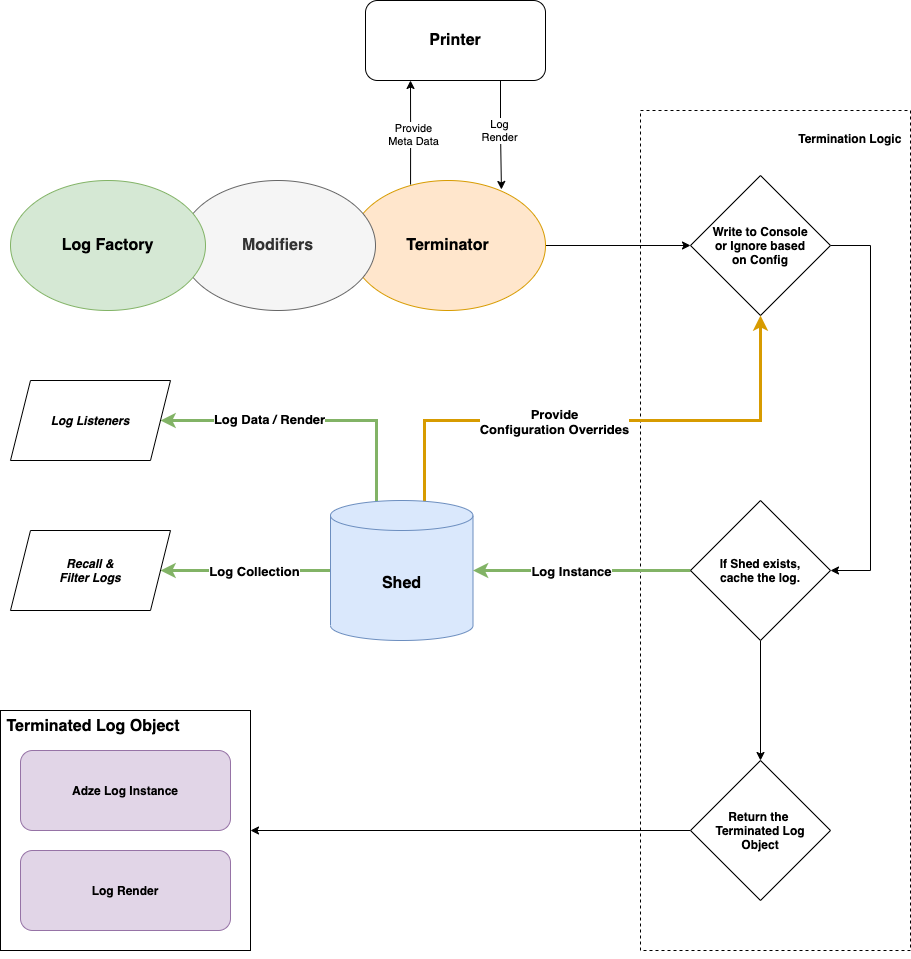
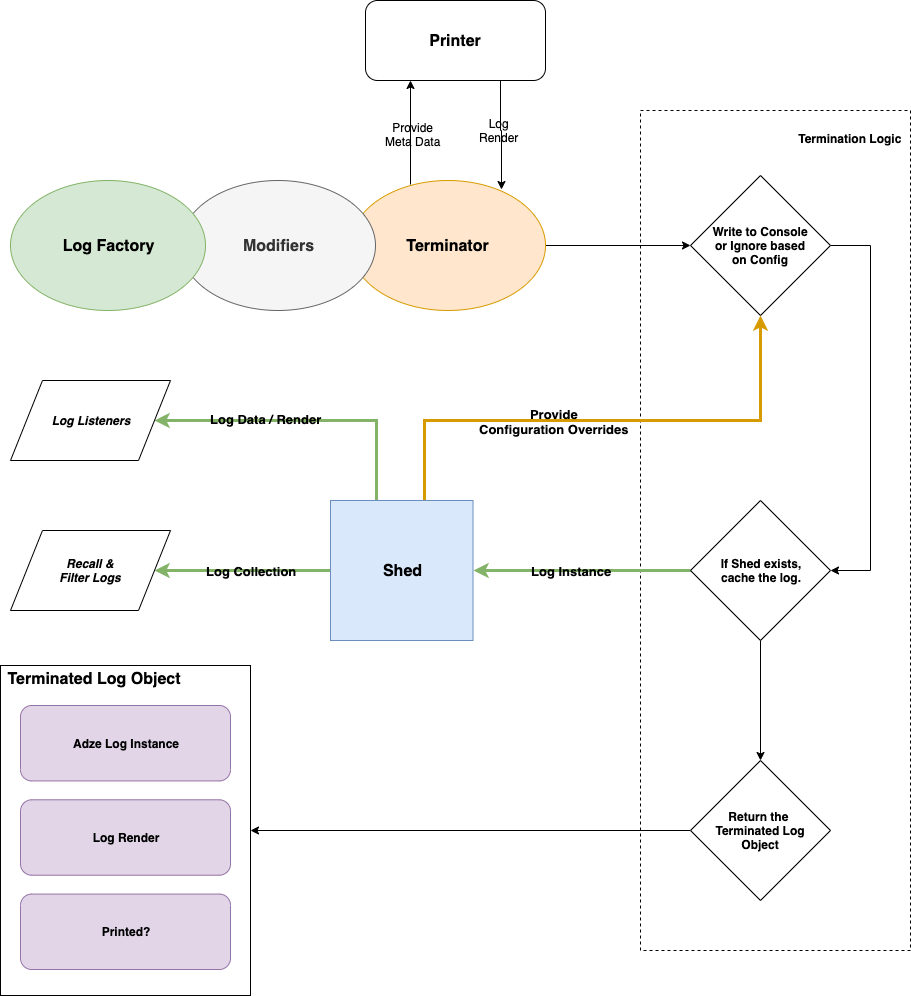
docs: documented new printed property and the new shed tools (#95)
* feat: logs now always render and printed boolean now returned when terminated

Logs will always render and store their render. To know if a log was printed to the console
terminated logs now expose the "printed" boolean that indicates if it was printed. Log listeners
also now receive the printed boolean. Rather than checking for render equal to null, listeners
should now check the printed boolean.

* feat(shed): added tools to the shed for easier manual browser debugging

Added a tools namespace to the shed to allow for easier manual browser debugging. This was added
because the shed exists in the global namespace and makes it easy to access when trying to run
commands in the browser console. It mainly just wraps the filter and rendering utility functions
that are exported by the library. It also includes another method that simplifies rendering a
collection of logs from the shed cache."

* docs: documented new printed property and the new shed tools

Added documentation for the new printed property on terminated log objects. Also added documentation
for the new $shed.tools.

* docs: added version indicators for the new features to docs

* docs: set the cdn version to always be latest for docs example

diff --git a/test/bundle.ts b/test/bundle.ts
@@ -6,14 +6,13 @@ global.ADZE_ENV = 'dev';
 test('bundles logs', (t) => {
   const bundled = bundle(adze({ useEmoji: true }));
 
-  const { log, render } = bundled().ns('SPACE').error('This is an error!');
-  const { log: log2, render: render2 } = bundled()
+  const { log, printed } = bundled().ns('SPACE').error('This is an error!');
+  const { log: log2, printed: printed2 } = bundled()
     .ns(['foo', 'SPACE'])
     .info('Multiple namespaces.');
 
-  if (render === null || render2 === null) {
-    t.fail();
-  }
+  t.truthy(printed);
+  t.truthy(printed2);
 
   t.deepEqual(log.bundle[0].data.namespace, ['SPACE']);
   t.deepEqual(log.bundle[1].data.namespace, ['foo', 'SPACE']);

diff --git a/docs/.vuepress/config.js b/docs/.vuepress/config.js
@@ -87,7 +87,7 @@ module.exports = {
     [
       'script',
       {
-        src: 'https://cdn.jsdelivr.net/npm/adze@0.5.7/dist/adze.min.js'
+        src: 'https://cdn.jsdelivr.net/npm/adze/dist/adze.min.js'
       }
     ],
     ['link',

diff --git a/docs/guide/data.md b/docs/guide/data.md
@@ -81,17 +81,17 @@ import { adze, createShed } from 'adze';
 const shed = createShed();
 
 // Our first listener will target all logs of any level
-shed.addListener('*', (data, render) => {
+shed.addListener('*', (data, render, printed) => {
   // do stuff...
 });
 
 // Our next listener will target logs with a level within our range
-shed.addListener([2, '-', 5], (data, render) => {
+shed.addListener([2, '-', 5], (data, render, printed) => {
   // do stuff...
 });
 
 // Our last listener will target logs of specific levels
-shed.addListener([2, 3, 6, 8], (data, render) => {
+shed.addListener([2, 3, 6, 8], (data, render, printed) => {
   // do stuff...
 });
 ```
@@ -127,6 +127,7 @@ interface LogData {
   dumpContext: boolean;
   expression?: boolean;
   isSilent: boolean;
+  printed: boolean;
   showTimestamp: boolean;
   label: LabelData;
   level: number | null;
@@ -159,6 +160,7 @@ interface FinalLogData extends LogData {
 | dumpContext   | Boolean indicating if the mapped diagnostic context (MDC) should be rendered.                | [MDC](mapped-diagnostic-context.md)                              |
 | expression    | The boolean result of the test expression on the log instance.                               | [test](modifiers.md#test)                                        |
 | isSilent      | Boolean value indicating if the log should execute silently.                                 | [silent](modifiers.md#silent)                                    |
+| printed       | Boolean value indicating if the log has been printed to the console (versions >= 1.3.0).     | [Terminated Log Object](#terminated-log-object)                  |
 | showTimestamp | Boolean value indicating that the log should render an ISO 8601 timestamp.                   | [timestamp](modifiers.md#timestamp)                              |
 | label         | The values of a label instance attached to the log instance.                                 | [Label](#label-data-object)                                      |
 | level         | The log level of the instance.                                                               | [Log Level Definition](/config/#log-levels-log-level-definition) |
@@ -252,15 +254,25 @@ const timestamp = log.data.timestamp;
 
 ## Terminated Log Object
 
-After an Adze log has been terminated a **Terminated Log object** will be returned (with a couple of exceptions, like [clear](other-terminators.md#clear-clr)). A terminated log object consists of two parts, the **Log Instance** and the [Log Render](#log-render).
+After an Adze log has been terminated a **Terminated Log object** will be returned (with a couple of exceptions, like [clear](other-terminators.md#clear-clr)). A terminated log object consists of three parts, the **Log Instance**, the [Log Render](#log-render), and the **printed** value that indicates if the log was printed to the console.
 
 The log instance is the reference to the instance that was terminated. You can use this to get [meta data about the Log](#log-data) or get a [collection](#collection) of logs if the log was [bundled](factories.md#bundle).
+
+> `printed` property supported in versions >= 1.3.0
 
 ### Interface
 
 ```typescript
+// Versions < 1.3.0
 interface TerminatedLog<T extends BaseLog> {
   log: T;
   render: LogRender | null;
+}
+
+// Versions >= 1.3.0
+interface TerminatedLog<T extends BaseLog> {
+  log: T;
+  render: LogRender | null;
+  printed: boolean;
 }
 ```

diff --git a/docs/guide/shed-concepts.md b/docs/guide/shed-concepts.md
@@ -81,9 +81,17 @@ class Shed {
   ): ListenerLocations;
 }
 
+// version < 1.3.0
 type ListenerCallback = (
   LogData: LogData | FinalLogData,
-  render: LogRender | null
+  render: LogRender | null,
+) => void;
+
+// version >= 1.3.0
+type ListenerCallback = (
+  LogData: LogData | FinalLogData,
+  render: LogRender | null,
+  printed: boolean,
 ) => void;
 ```
 
@@ -95,9 +103,9 @@ import { adze, createShed } from 'adze';
 const shed = createShed();
 
 // Let's only listen to levels 1, 2 and 3
-shed.addListener([1, 2, 3], ({ definition, timestamp, args }, render) => {
-  // We only want write logs if they were allowed to render
-  if (render) {
+shed.addListener([1, 2, 3], ({ definition, timestamp, args }, render, printed) => {
+  // We only want write logs if they printed to the console
+  if (printed) { // If version is < 1.3.0 use `if (render)`
     // Let's write our log as a JSON object
     const log = {
       level: definition.level,
@@ -135,3 +143,31 @@ const collection = shed.getCollection('*');
 // And then we can filter them, re-render them, etc.
 filterLabel(collection, 'test').forEach(rerender);
 ```
+
+## Manual Debugging Tools
+
+There may be occasions where you need to do manual debugging in a browser environment by [recalling logs](#recalling-logs). The shed instance gives you access to functions for rerendering logs in the global context.
+
+This is mostly useful in cases where you are deploying your application to a QA or test environment that has the same log level set as that of production. Because of this, you will likely have some of your logs hidden from rendering. If a bug has popped up and you need these logs this can be problematic. With the use of the shed tools you can work around this limitation and render logs that were previously hidden.
+
+> Supported in versions >= 1.4.0
+
+### Example
+
+```javascript
+import { adze, createShed, filterLabel, rerender } from 'adze';
+
+const shed = createShed();
+
+// In our production environment we only want alert and error level logs to render.
+const log = adze({ logLevel: 1 }).seal();
+
+// Throughout our app we generate some debugging logs...
+log().label('test').debug('This has some important debugging information.');
+log().info('This also has some important debugging information.');
+
+// However, these logs will not print. Now, that your app is in QA you discover a bug. You now need
+// to get some of your debugging information without creating a new build and redeploying...
+```
+
+![Shed tools example](./examples/shed-tools-example.png)

diff --git a/docs/guide/using-shed.md b/docs/guide/using-shed.md
@@ -159,8 +159,14 @@ _NOTE:_ It is not necessary to call this method manually to fire listeners. When
 ### Interface
 
 ```typescript
+// Versions < 1.3.0
 class Shed {
   public fireListeners(log: FinalLogData, render: LogRender | null): void;
+}
+
+// Versions >= 1.3.0
+class Shed {
+  public fireListeners(log: FinalLogData, render: LogRender | null, printed: boolean): void;
 }
 ```
 
@@ -178,12 +184,12 @@ shed.addListener('*', (data, render) => {
   // Do stuff with the log data.
 });
 
-const { log, render } = adze().info('some important info.');
+const { log, render, printed } = adze().info('some important info.');
 const data = log.data;
 
 // Listeners only accept finalized log data so we must use a type guard to verify it
 if (isFinalLogData(data)) {
-  shed.fireListeners(data, render);
+  shed.fireListeners(data, render, printed);
 }
 ```
 
@@ -380,3 +386,59 @@ const { log } = adze().info('Some important info.');
 // Store the log
 shed.store(log);
 ```
+
+## $shed.tools
+
+Manual debugging tools primarily for use in the web browser. To use the tools, access them via `window.$shed.tools` or simply `$shed.tools` in your browser console. Any of the methods listed in the interface below will be made available to you. For all methods other than `renderCache` please refer to the documentation for [Filtering & Utility Functions](filtering-and-utility-functions.md).
+
+> Supported in versions >= 1.4.0
+
+### Interface
+
+```typescript
+class Shed {
+  public tools: Tools;
+}
+
+class Tools {
+
+  /**
+   * Pass-through alias for the render function.
+   */
+  public render = render;
+
+  /**
+   * Pass-through alias for the rerender function.
+   */
+  public rerender = rerender;
+
+  /**
+   * Pass-through alias for the filterCollection function.
+   */
+  public filterCollection = filterCollection;
+
+  /**
+   * Pass-through alias for the filterLabel function.
+   */
+  public filterLabel = filterLabel;
+
+  /**
+   * Pass-through alias for the filterLevel function.
+   */
+  public filterLevel = filterLevel;
+
+  /**
+   * Pass-through alias for the filterNamespace function.
+   */
+  public filterNamespace = filterNamespace;
+
+  /**
+   * Shortcut method for rendering a level-filtered collection from the Shed cache.
+   */
+  public renderCache(filter: LevelFilter): Collection;
+}
+```
+
+### Example
+
+![Shed tools example](./examples/shed-tools-example.png)

diff --git a/docs/guide/adze-concepts.md b/docs/guide/adze-concepts.md
@@ -73,9 +73,9 @@ const shed = createShed();
 
 /* Let's create a log listener to transport our log data
    to a destination. We'll listen to all log levels. */
-shed.addListener('*', (data, render) => {
-  // If a log does not render then we will ignore transporting it.
-  if (render) {
+shed.addListener('*', (data, render, printed) => {
+  // If a log did not print then we will ignore transporting it.
+  if (printed) {
     // Do transport logic here.
   }
 });
@@ -139,9 +139,9 @@ import { adze, createShed } from 'adze';
 const shed = createShed();
 
 // Let's use the shed instance reference to add a log listener.
-shed.addListener('*', (data, render) => {
-  // Render will be null if the log was never written to the console.
-  if (render) {
+shed.addListener('*', (data, render, printed) => {
+  // printed will be false if the log was never written to the console.
+  if (printed) {
     // do something with data
   }
 });
@@ -181,4 +181,4 @@ function myNewFeature() {
 
 The code above will exclude any logs with a namespace of "new-feature" from being written to the console. Also take notice of the listener we created in our `main.ts`. It watches all log levels (represented by the `'*'`) and will fire for the logs with a namespace of `'new-feature'` even though they are being filtered out. This is done to give you flexibility in how you want to handle your logs in your listeners.
 
-Also notice in our code we are checking if the render value is truthy. We are doing this because any log that was not written to the console will have a `null` log render. This is an easy way to ignore logs that are hidden by any of our filters.
+Also notice in our code we are checking if the printed value is true. We are doing this because any log that was not written to the console will have a `false` value for `printed`. This is an easy way to ignore logs that are hidden by any of our filters.

diff --git a/readme.md b/readme.md
@@ -52,7 +52,18 @@ Read more about the standard here: [MDN Console Docs](https://developer.mozilla.
 As stated above, Adze offers an easy to use, chainable API. To create a log you simply chain together an Adze log instance with a series of modifiers and then end with a terminator. Here's an example of creating a log with emoji's and a namespace:
 
 ```typescript
-import { adze } from 'adze';
+import adze, { createShed } from 'adze';
+
+// Create our global log in-memory cache
+const shed = createShed();
+
+// Listen to logs that are generated and operate on them
+shed.addListener('*', (data, render, printed) => {
+  // if my log printed to the console
+  if (printed) {
+    // do stuff with my log data like sending to an API or localStorage
+  }
+});
 
 adze({ useEmoji: true }).ns('tix-456').log('Example log');
 ```
@@ -113,7 +124,7 @@ _**NOTE:** In the script tag in the example below, replace `<version>` with the 
 ```html
 <!-- In the head of your html -->
 <head>
-  <!-- To use v0.5.3 you would write https://cdn.jsdelivr.net/npm/adze@0.5.3/dist/adze.min.js -->
+  <!-- To use v1.3.0 you would write https://cdn.jsdelivr.net/npm/adze@1.3.0/dist/adze.min.js -->
   <script src="https://cdn.jsdelivr.net/npm/adze@<version>/dist/adze.min.js"></script>
 </head>
 
@@ -129,7 +140,7 @@ _**NOTE:** In the script tag in the example below, replace `<version>` with the 
 ### Node JS (CommonJS)
 
 ```javascript
-const { adze } = require('adze');
+const adze = require('adze');
 
 adze().log('Hello World!');
 ```
@@ -137,7 +148,7 @@ adze().log('Hello World!');
 ### ES6 / TypeScript
 
 ```typescript
-import { adze } from 'adze';
+import adze from 'adze';
 
 adze().log('Hello World!');
 ```

diff --git a/docs/guide/installation.md b/docs/guide/installation.md
@@ -52,7 +52,7 @@ _**NOTE:** In the script tag in the example below, replace `<version>` with the 
 ```html
 <!-- In the head of your html -->
 <head>
-  <!-- To use v0.5.7 you would write https://cdn.jsdelivr.net/npm/adze@0.5.7/dist/adze.min.js -->
+  <!-- To use v1.4.0 you would write https://cdn.jsdelivr.net/npm/adze@1.4.0/dist/adze.min.js -->
   <script src="https://cdn.jsdelivr.net/npm/adze@<version>/dist/adze.min.js"></script>
 </head>
 
@@ -68,7 +68,7 @@ _**NOTE:** In the script tag in the example below, replace `<version>` with the 
 ### Node JS (CommonJS)
 
 ```javascript
-const { adze } = require('adze');
+const adze = require('adze');
 
 adze().log('Hello World!');
 ```
@@ -76,7 +76,7 @@ adze().log('Hello World!');
 ### ES6 / TypeScript
 
 ```typescript
-import { adze } from 'adze';
+import adze from 'adze';
 
 adze().log('Hello World!');
 ```

diff --git a/docs/guide/README.md b/docs/guide/README.md
@@ -51,7 +51,18 @@ Read more about the standard here: [MDN Console Docs](https://developer.mozilla.
 As stated above, Adze offers an easy to use, chainable API. To create a log you simply chain together an Adze log instance with a series of modifiers and then end with a terminator. Here's an example of creating a log with emoji's and a namespace:
 
 ```typescript
-import { adze } from 'adze';
+import adze, { createShed } from 'adze';
+
+// Create our global log in-memory cache
+const shed = createShed();
+
+// Listen to logs that are generated and operate on them
+shed.addListener('*', (data, render, printed) => {
+  // if my log printed to the console
+  if (printed) {
+    // do stuff with my log data like sending to an API or localStorage
+  }
+});
 
 adze({ useEmoji: true }).ns('tix-456').log('Example log');
 ```

diff --git a/docs/guide/filtering-and-utility-functions.md b/docs/guide/filtering-and-utility-functions.md
@@ -272,16 +272,16 @@ import { adze, createShed, isFinalLogData } from 'adze';
 const shed = createShed();
 
 // Let's create a listener and store it's location in a variable
-shed.addListener('*', (data, render) => {
+shed.addListener('*', (data, render, printed) => {
   // Do stuff with the log data.
 });
 
-const { log, render } = adze().info('some important info.');
+const { log, render, printed } = adze().info('some important info.');
 const data = log.data;
 
 // Listeners only accept finalized log data so we must use a type guard to verify it
 if (isFinalLogData(data)) {
-  shed.fireListeners(data, render);
+  shed.fireListeners(data, render, printed);
 }
 ```
 
